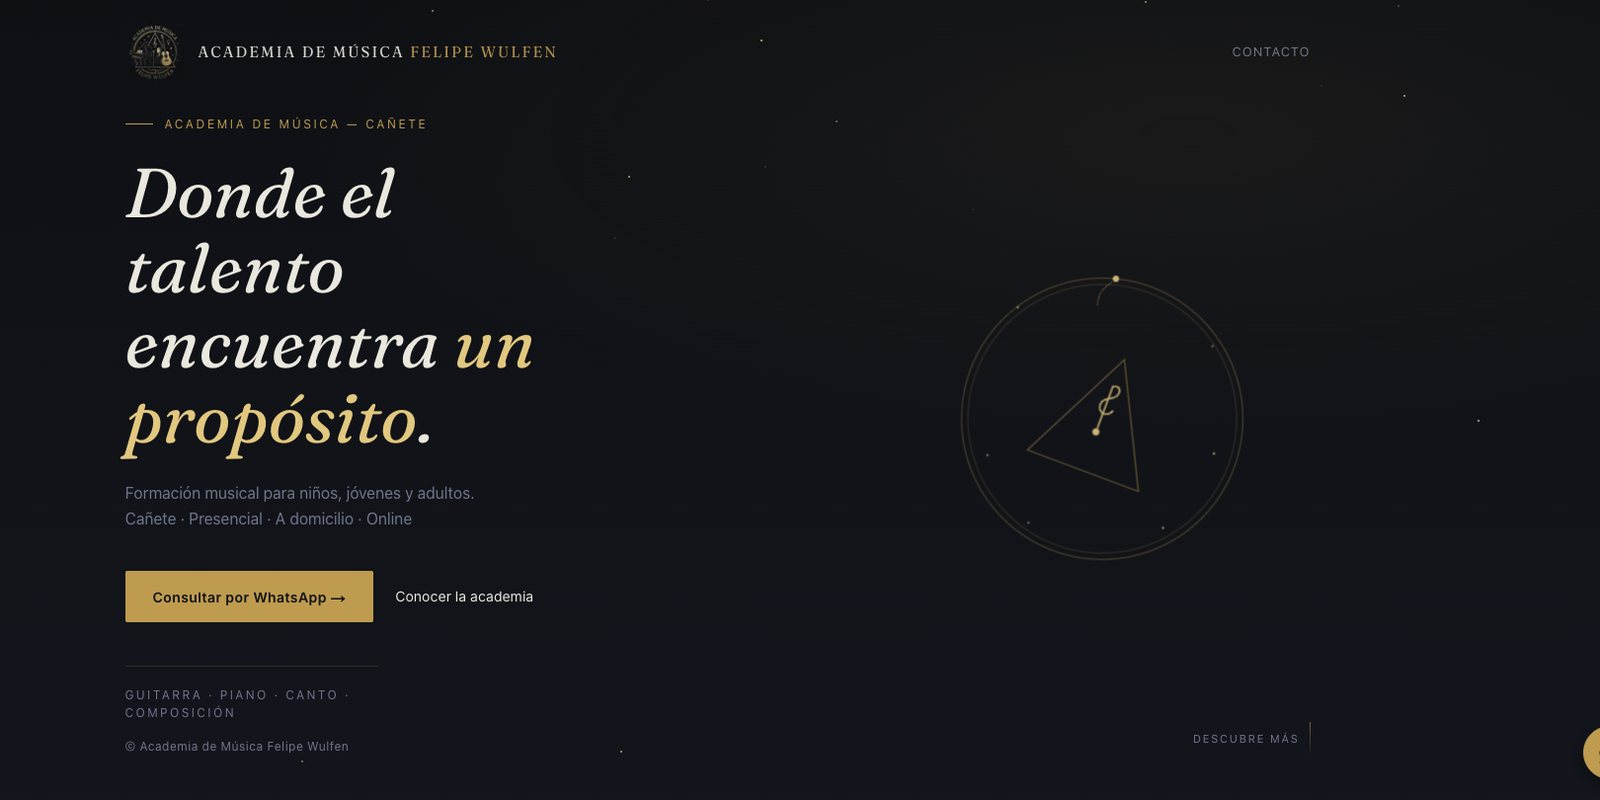
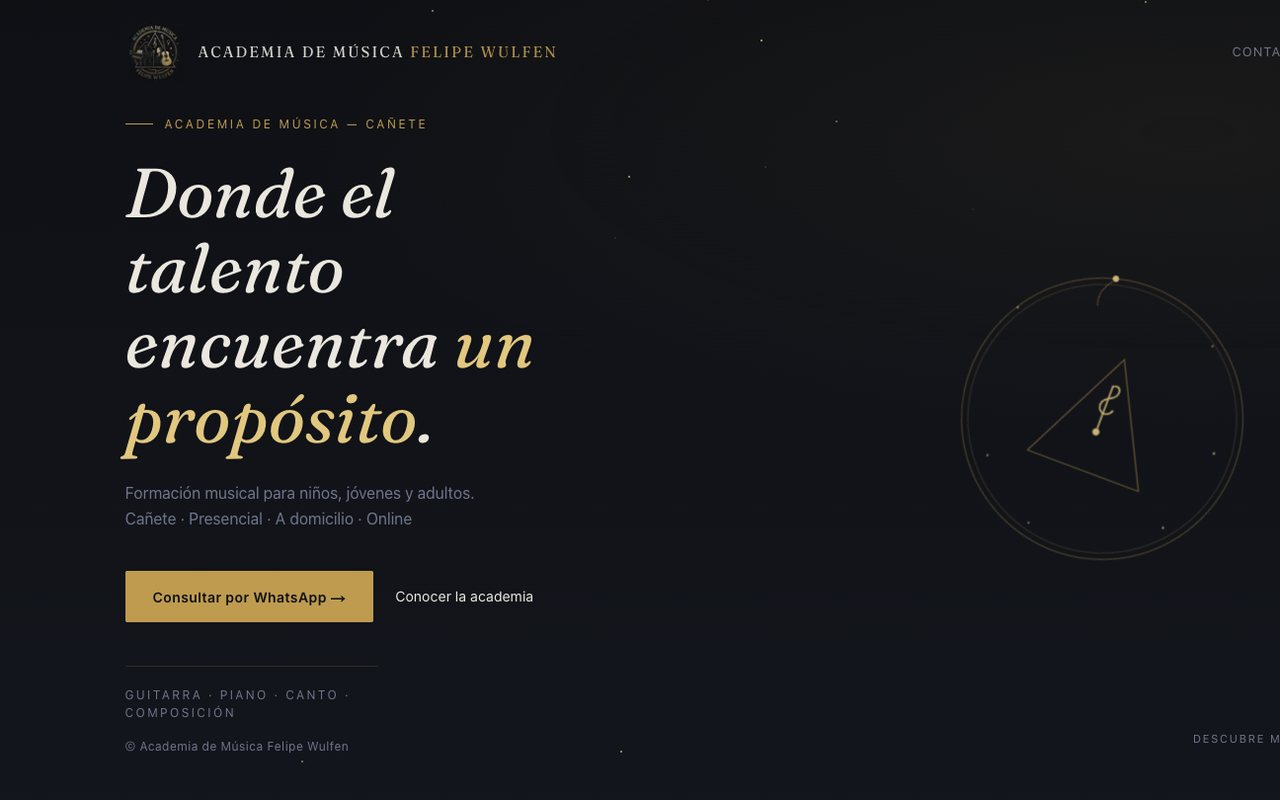
feat: sincronizar carrusel y trabajos.html con los 11 proyectos del portafolio

diff --git a/trabajos.html b/trabajos.html
@@ -198,6 +198,66 @@
         <span class="sr-only"> (abre en una nueva pestaña)</span>
       </a>
 
+      <a href="https://www.felipewulfen.cl/" target="_blank" rel="noopener" class="project reveal" style="--reveal-delay:0.05s">
+        <div class="project-preview">
+          <img src="previews/felipe-wulfen-preview.jpg" alt="Vista del sitio de la Academia de Música Felipe Wulfen" width="1280" height="800" loading="lazy" decoding="async">
+        </div>
+        <div class="project-info">
+          <div>
+            <p class="project-name">Academia de Música Felipe Wulfen</p>
+            <p class="project-url">felipewulfen.cl</p>
+            <span class="project-tag">academia · música · Cañete</span>
+          </div>
+          <span class="project-arrow" aria-hidden="true">↗</span>
+        </div>
+        <span class="sr-only"> (abre en una nueva pestaña)</span>
+      </a>
+
+      <a href="https://baquetas-timbales.vercel.app/" target="_blank" rel="noopener" class="project reveal">
+        <div class="project-preview">
+          <img src="previews/baquetas-timbales-preview.jpg" alt="Vista del sitio de Baquetas &amp; Timbales" width="1600" height="800" loading="lazy" decoding="async">
+        </div>
+        <div class="project-info">
+          <div>
+            <p class="project-name">Baquetas &amp; Timbales</p>
+            <p class="project-url">baquetas-timbales.vercel.app</p>
+            <span class="project-tag">escuela · talentos · Cañete</span>
+          </div>
+          <span class="project-arrow" aria-hidden="true">↗</span>
+        </div>
+        <span class="sr-only"> (abre en una nueva pestaña)</span>
+      </a>
+
+      <a href="https://melocabezas.cl/" target="_blank" rel="noopener" class="project reveal" style="--reveal-delay:0.05s">
+        <div class="project-preview">
+          <img src="previews/melo-cabezas-preview.jpg" alt="Vista del sitio de Melo &amp; Cabezas, abogados laborales" width="1600" height="800" loading="lazy" decoding="async">
+        </div>
+        <div class="project-info">
+          <div>
+            <p class="project-name">Melo &amp; Cabezas</p>
+            <p class="project-url">melocabezas.cl</p>
+            <span class="project-tag">abogados · laboral · Chile</span>
+          </div>
+          <span class="project-arrow" aria-hidden="true">↗</span>
+        </div>
+        <span class="sr-only"> (abre en una nueva pestaña)</span>
+      </a>
+
+      <a href="https://dojocanete.cl" target="_blank" rel="noopener" class="project reveal">
+        <div class="project-preview">
+          <img src="previews/dojo-ichigeki-preview.jpg" alt="Vista del sitio del Dojo Ichigeki Cañete" width="1616" height="586" loading="lazy" decoding="async">
+        </div>
+        <div class="project-info">
+          <div>
+            <p class="project-name">Dojo Ichigeki Cañete</p>
+            <p class="project-url">dojocanete.cl</p>
+            <span class="project-tag">karate · kickboxing · Cañete</span>
+          </div>
+          <span class="project-arrow" aria-hidden="true">↗</span>
+        </div>
+        <span class="sr-only"> (abre en una nueva pestaña)</span>
+      </a>
+
     </div>
   </section>
 </main>

diff --git a/index.html b/index.html
@@ -254,7 +254,7 @@
         <!-- ✏ AÑO PENDIENTE <p class="work-year">20XX</p> -->
       </div>
       <figure class="work-media">
-        <img src="previews/felipe-wulfen-preview.jpg" alt="Vista del sitio de la Academia de Música Felipe Wulfen" width="1600" height="800" loading="lazy" decoding="async">
+        <img src="previews/felipe-wulfen-preview.jpg" alt="Vista del sitio de la Academia de Música Felipe Wulfen" width="1280" height="800" loading="lazy" decoding="async">
       </figure>
     </a>
 
@@ -284,14 +284,40 @@
       </figure>
     </a>
 
+    <a class="work-entry reveal" href="https://albergo-hostal.vercel.app" target="_blank" rel="noopener" style="--reveal-delay:0.4s">
+      <div class="work-body">
+        <p class="work-num">10</p>
+        <h3 class="work-name">Albergo Hostal</h3>
+        <p class="work-context">Hostal · Cañete, Chile</p>
+        <p class="work-url">→ albergo-hostal.vercel.app<span class="sr-only"> (abre en una nueva pestaña)</span></p>
+        <!-- ✏ AÑO PENDIENTE <p class="work-year">20XX</p> -->
+      </div>
+      <figure class="work-media">
+        <img src="previews/albergo.jpg" alt="Vista del sitio de Albergo Hostal" width="1400" height="631" loading="lazy" decoding="async">
+      </figure>
+    </a>
+
+    <a class="work-entry reveal" href="https://ferreteria-la-italiana.vercel.app" target="_blank" rel="noopener" style="--reveal-delay:0.45s">
+      <div class="work-body">
+        <p class="work-num">11</p>
+        <h3 class="work-name">Ferretería La Italiana</h3>
+        <p class="work-context">Ferretería · Cañete, Chile</p>
+        <p class="work-url">→ ferreteria-la-italiana.vercel.app<span class="sr-only"> (abre en una nueva pestaña)</span></p>
+        <!-- ✏ AÑO PENDIENTE <p class="work-year">20XX</p> -->
+      </div>
+      <figure class="work-media">
+        <img src="previews/ferreteria.jpg" alt="Vista del sitio de Ferretería La Italiana" width="1400" height="631" loading="lazy" decoding="async">
+      </figure>
+    </a>
+
     </div>
 
     <div class="work-carousel__nav" role="group" aria-label="Controles del carrusel de proyectos">
       <button type="button" class="work-nav-btn" data-carousel-prev aria-label="Proyecto anterior" aria-controls="workList"><span aria-hidden="true">←</span></button>
 
       <p class="work-counter">
-        <span class="sr-only" role="status" aria-live="polite" data-carousel-status>Proyecto 1 de 9</span>
-        <span class="work-counter__view" aria-hidden="true"><span data-carousel-current>01</span><span class="work-counter__sep">/</span><span data-carousel-total>09</span></span>
+        <span class="sr-only" role="status" aria-live="polite" data-carousel-status>Proyecto 1 de 11</span>
+        <span class="work-counter__view" aria-hidden="true"><span data-carousel-current>01</span><span class="work-counter__sep">/</span><span data-carousel-total>11</span></span>
       </p>
 
       <button type="button" class="work-nav-btn" data-carousel-next aria-label="Proyecto siguiente" aria-controls="workList"><span aria-hidden="true">→</span></button>
